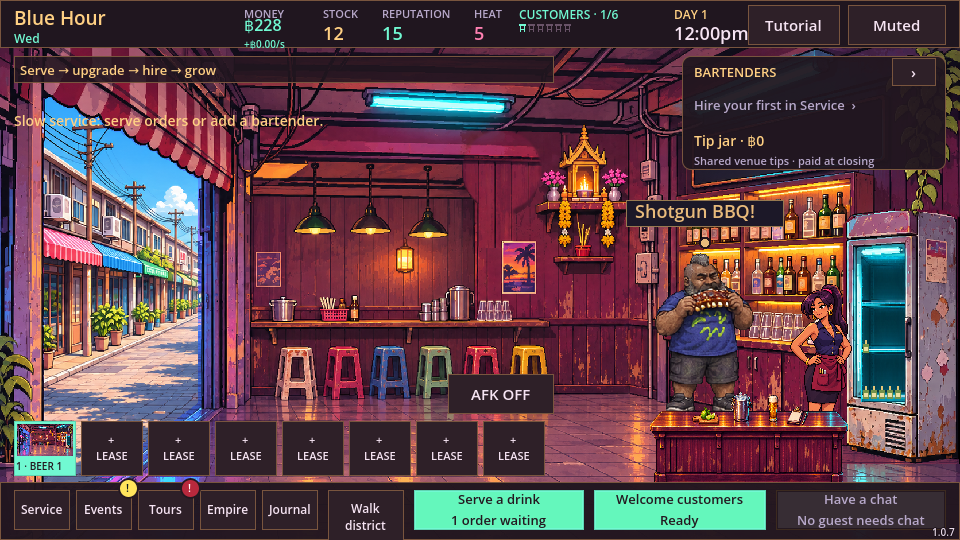
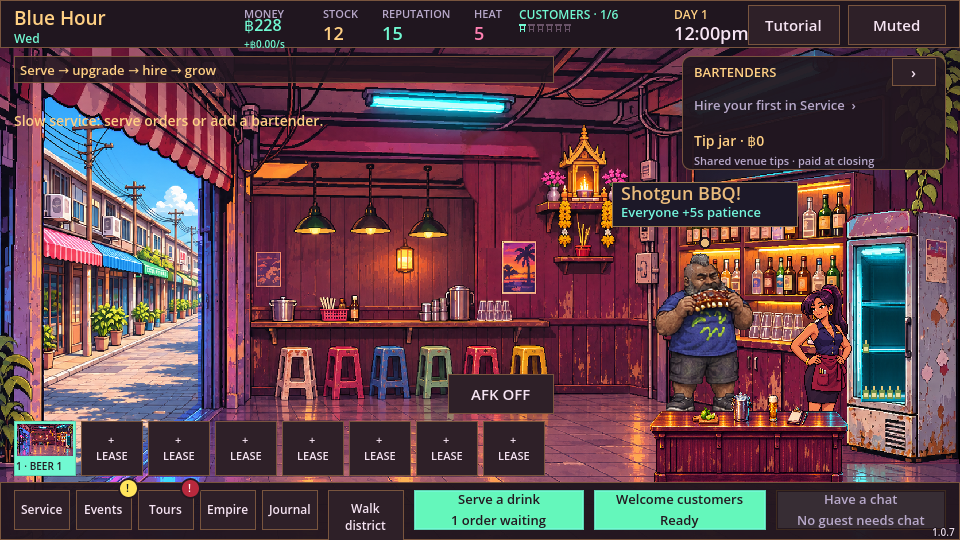
Give Shotgun a street-wide patience boost with saved cooldown

Changed region(s): [[0.625, 0.3259, 0.8438, 0.4148]]

diff --git a/docs/TESTING.md b/docs/TESTING.md
@@ -1,5 +1,38 @@
 # Testing and release checks
 
+## Shotgun patience boost — 27 November 2026
+
+A successful click/tap now adds five seconds of patience to every current
+street visitor and starts one shared 30-second foreground cooldown. The model
+owns eligibility, the additive visit allowance and fractional saved deadline.
+Legacy visits also extend their lifetime cap; modern drinking deadlines and
+round plans remain intact. City presents the granted bonus and live countdown.
+This supersedes the presentation-only behavior in the original Shotgun entry.
+
+Verification on Godot 4.7.2:
+
+- All gameplay/save/UI/art regression checks and pacing, promoter, automation,
+  celebration, club and profit-cycle suites passed through `tools/test.sh`.
+  The wrapper was interrupted during its final lease suite; that suite was
+  rerun separately in the isolated Shotgun-only source snapshot.
+- `shotgun_patience_check.gd` covers all current customers across two venues,
+  multiple Shotguns sharing a cooldown, exact fractional boundaries, cumulative
+  per-visit bonuses, no retroactive bonus for new arrivals, save/reload,
+  legacy lifetime caps, real order expiry and malformed optional save fields.
+  Exact model snapshots verify no extra stock, money, orders or RNG changes.
+- Updated pointer tests cover mouse/touch, cooldown lockout after the eating
+  animation ends, repeat clicks, mute, HUD retention and campaign reset.
+  The focused tests passed both in the shared checkout and a snapshot containing
+  only this change, preserving concurrent tour work.
+- The existing art preview runner produced 21 states each at 960×540 and
+  1280×720. Inspected the bonus bubble, early/last-second cooldown and ready
+  state in all three venue types. Existing character art stays unchanged.
+- Changed-document local links and `git diff --check` passed.
+
+[Preview](shotgun.png). Device touch/play and release publication remain
+unverified.
+
+
 ## Shotgun customer and ribs reaction — 27 November 2026
 
 Shotgun joins through normal admissions as a saved optional cosmetic identity,

diff --git a/story.md b/story.md
@@ -361,7 +361,7 @@ has a new sign.
 | **Dao** | Shift lead and the face of trusted management | Wants predictable hours and a venue she can run properly. Her progression is from dependable colleague to someone the player trusts with the keys. |
 | **Mali** | Bartender and Toybox regular | Likes a contest with clear rules. Wants fight nights that pay their way, not endless promises of exposure. |
 | **Gabby** | Adult bartender in a very short red dress, with pale skin and tied-back brown hair | Quick wit and a good memory for orders; her regulars leave an extra ฿5 for each drink she serves, counted in the nightly jar. |
-| **Shotgun** | Adult customer with a grey mohawk, salt-and-pepper beard and blue shirt | Loves a juicy rack of ribs. Click or tap him for his “Shotgun BBQ!” eating reaction and synthetic shout; he remains an ordinary paying customer. |
+| **Shotgun** | Adult customer with a grey mohawk, salt-and-pepper beard and blue shirt | Loves a juicy rack of ribs. Click or tap him for his “Shotgun BBQ!” eating reaction and synthetic shout: all current street customers gain five seconds of patience, with a shared thirty-second cooldown. He remains an ordinary paying customer. |
 | **Daisy** | Fictional adult hostess-bar entertainer, with pale skin, tied-back brown hair and a red bikini | Quick with a joke and strict about finishing on time. Attracts guests under the normal host contract; a separate character from bartender Gabby. |
 | **Pim** | Bartender with a music programme in mind | Saves for a sound studio. Distinguishes a booked performer from Bo arriving with a karaoke machine. |
 | **Fern** | Guide who knows the market | Connects the business to life outside its frontage. Her knowledge and time have value. |

diff --git a/docs/ECONOMY.md b/docs/ECONOMY.md
@@ -978,5 +978,19 @@ existing host identities; no saved employee is replaced or granted for free.
 New admissions whose IDs are 12 modulo 48 carry the optional saved cosmetic
 identity `shotgun`. Existing customers keep their appearances, paid quotes,
 budgets and visit plans. Shotgun uses the same bounded arrivals and business
-rules as every guest. Clicking/tapping his ribs reaction affects presentation
-only: no food stock, purchase, income, service, visit extension or gameplay RNG.
+rules as every guest. Clicking/tapping him during live trading gives every
+current customer in every venue +5 seconds of patience and starts one shared 30-second foreground cooldown.
+The bonus stacks per current visit on later successful activations; new arrivals
+receive no retroactive bonus. Legacy visits also receive +5 seconds on their
+lifetime cap so the full waiting extension applies. Modern round plans, paid
+drinking deadlines, orders, stock, prices, money and RNG remain unchanged.
+No food stock, purchase, income or service is created. Paused menus/decisions,
+closed venues, absent Shotgun and repeated clicks cannot activate it.
+
+Optional schema-17 `street.shotgun_ready` preserves the fractional live deadline;
+`customer.shotgun_patience` preserves the granted integer visit allowance.
+Missing fields default to zero, without rewriting old visits or replaying a bonus.
+The cooldown advances with the live action clock, never menu time or offline
+estimates. The scene requests the model action; status/countdown reads stay pure.
+After success the bubble shows “Everyone +5s patience”, followed by the live
+cooldown above Shotgun. Existing owner and staff service clocks stay independent.

diff --git a/DEVELOPMENT.md b/DEVELOPMENT.md
@@ -1,12 +1,20 @@
 # Developer setup and handover
 
-The optional customer `appearance: "charcoal"` field is cosmetic and remains
-compatible with schema 17. Only `economy.admit` assigns it to new ID-24-mod-48
-visits, without RNG; absent fields keep legacy looks. Campaign validation
-accepts only that identity. `city.scene_people` reads actual visit phase, saved
+The optional customer `appearance` field accepts `charcoal` and `shotgun` in
+schema 17. Only `economy.admit` assigns these to new ID-24/12-mod-48 visits,
+without RNG; absent fields keep legacy looks. Campaign validation accepts
+these two identities. `city.scene_people` reads actual visit phase, saved
 Chat deadline and active pool state for poses. Packing and provenance are in
 [the art guide](art/README.md); `charcoal_guest_check.gd` covers save preservation
 and read-only presentation. Outdoor walkers remain ambient traffic, not admissions.
+
+Shotgun's click bonus is model-owned in `economy.shotgun`, routed through
+`street.action("shotgun", customer_id)`. City emits the click; main plays the
+reaction and saves only after an eligible action. Optional schema-17
+`street.shotgun_ready` and `customer.shotgun_patience` keep the shared fractional
+30-second cooldown and current-visit bonus across reloads. Validation rejects
+malformed fields; absent fields retain old visits without gifts. Status/UI reads
+never activate the bonus. See `tests/shotgun_patience_check.gd`.
 
 All existing customer identities now map to expanded sixteen-frame sheets via
 `Art.customer_motion_id`. `city.update_customer_motion` owns only transient

diff --git a/docs/MERGE_HANDOFF.md b/docs/MERGE_HANDOFF.md
@@ -1,5 +1,22 @@
 # Current implementation and release handoff
 
+## Shotgun patience boost — 27 November 2026
+
+Click/tap Shotgun to give all current customers across the street +5 seconds
+of patience, with one saved 30-second live cooldown shared across venues.
+The eating bubble reports the bonus, then the remaining cooldown appears above
+Shotgun. Optional schema-17 fields retain exact deadlines and granted visit
+bonuses without changing old visits or replaying rewards on load. All money,
+orders, stock, modern drinking deadlines, visit plans and RNG stay unchanged.
+This supersedes the original cosmetic-only click behavior below.
+
+Verification includes model/UI/save regressions, two-resolution preview review,
+all pacing suites and isolated Shotgun-only focused tests; see
+[the test record](TESTING.md#shotgun-patience-boost--27-november-2026).
+Concurrent tour-manager edits are preserved outside this commit. Device play
+and release publication remain unverified.
+
+
 ## Shotgun — 27 November 2026
 
 Added the supplied-reference adult Shotgun as a normal customer, with an

diff --git a/docs/PLAYER_GUIDE.md b/docs/PLAYER_GUIDE.md
@@ -16,8 +16,12 @@ Double-click the rainbow duo in the bar, or tap them on a touchscreen, to see
 them kiss with a floating heart.
 Click or tap **Shotgun**, the bearded customer with the grey mohawk and blue
 shirt, to see him tuck into a rack of ribs and yell **“Shotgun BBQ!”**.
-His short reaction leaves your orders and business running normally; **Muted**
-silences his synthetic shout. He arrives through the normal customer rotation.
+Everyone currently visiting your street gains **five seconds of patience**.
+The **30-second cooldown** is shared across all venues and saved on reload;
+look above Shotgun for the countdown. Another successful click adds five more
+seconds to each current visit; future arrivals receive no retroactive bonus.
+Orders and business keep running during his reaction. **Muted** silences his
+synthetic shout. He arrives through the normal customer rotation.
 
 ## Leaving the game running
 

diff --git a/README.md b/README.md
@@ -80,7 +80,9 @@ ambient street traffic. [See the continuous return walk](docs/customer-return.we
 The capybara blinks and settles onto its haunches before standing again.
 Shotgun joins the customer rotation with his grey mohawk, beard and blue shirt.
 Click or tap him to see him eat a rack of ribs and yell **“Shotgun BBQ!”**;
-Sound / Muted also controls his synthetic shout.
+Sound / Muted also controls his synthetic shout. Each successful click gives
+all current customers across the street **+5 seconds of patience**, with one
+shared **30-second live cooldown** saved across reloads.
 Double-click the rainbow duo or tap them on a touchscreen to see them kiss.
 Wall fans appear only after buying **Fans & comfortable seats**, including in
 the property thumbnail; renovation alone does not install them.

diff --git a/art/README.md b/art/README.md
@@ -552,7 +552,10 @@ python3 tools/prepare_customers.py --character shotgun
 or imitation of the reference person. Its reproducible command is recorded in
 the art receipt. Godot renders the exact “Shotgun BBQ!” text; the click/tap
 reaction holds only his visual walking position for 3.2 seconds. Real model
-service, budgets, timers and stock continue. Sound / Muted controls the voice.
+service, budgets, drinking timers and stock continue. Clicking now requests the
+model-owned +5-second street patience bonus with its saved 30-second cooldown;
+the bubble reports the bonus and then displays remaining cooldown. Sound / Muted
+controls the voice.
 
 [In-game reaction](../docs/shotgun.png). Preview with
 `PATTAYA_PREVIEW_SCRIPT=tests/preview_shotgun.gd tools/preview-art.sh`.
